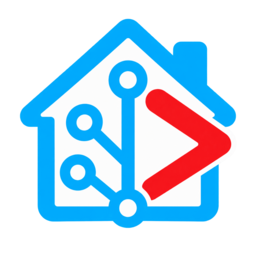
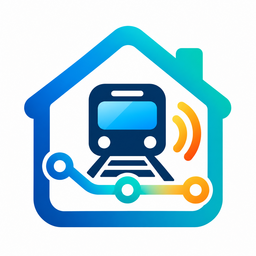
chore: replace branding and tighten public repo safeguards

diff --git a/AGENTS.md b/AGENTS.md
@@ -86,6 +86,36 @@ Never commit:
 
 Use ignored local configuration or environment variables for development secrets.
 
+## Public repository and release hygiene
+
+Before committing or preparing a release, inspect tracked files and the diff for
+accidental sensitive or development-only material. Check for API keys, tokens,
+passwords, cookies, credentials, private keys, certificates, authentication
+headers, `.env` and other local configuration files, Home Assistant `.storage`
+contents, captured API/protobuf responses, logs, debug dumps, screenshots, and
+fixtures. Also check for private URLs, internal hostnames/IPs, SSH details, local
+paths, usernames, machine-specific information, and personal addresses, email,
+phone, precise location, travel, or routine data. Do not claim a privacy or
+security scan was performed unless it was actually performed.
+
+Never read, print, copy, commit, or expose `api-key.txt`, `.env*`, Home
+Assistant `.storage`, or any other credential store. Documentation must use
+generic/example journeys and stations: do not use North Williamstown,
+Williamstown, Newport, or similar maintainer-relevant locations unless genuinely
+necessary. Realistic station names remain acceptable in technically useful tests.
+
+`logo.png` is the approved original source artwork. The generated/resized
+derivatives are `custom_components/ptv_line_status/brand/icon.png` and
+`custom_components/ptv_line_status/brand/icon@2x.png`. Agents may resize or
+optimise `logo.png` as needed, but must not redesign it to incorporate or
+imitate PTV, Home Assistant, Victorian Government, Nabu Casa, or other
+third-party logos. Do not use, imitate, blend, transform, or derive from
+third-party logos, names, or marks without a clear right to do so;
+AI-generated artwork prompted that way is still third-party-derived. Prefer
+visually independent branding and do not imply affiliation, endorsement, or
+official status. Replacement branding must be independently designed/original
+or have clearly documented permission.
+
 ## Git
 
 Use small focused commits.

diff --git a/README.md b/README.md
@@ -14,8 +14,8 @@ indicator to ESPControl displays, but ESPControl is optional: the same entities
 work in ordinary Home Assistant dashboards and automations.
 
 Version 0.2.5 creates three entities for each configured Metro train station,
-line, and direction. Multiple entries can be added, such as **North
-Williamstown → City**, **Newport → Williamstown**, and **Newport → City**.
+line, and direction. Multiple entries can be added, such as **Flinders Street →
+Frankston**, **Richmond → City**, and **Footscray → Werribee**.
 
 ## What it provides
 
@@ -220,11 +220,6 @@ Attribution 4.0 International Licence.
 
 This project is not affiliated with, endorsed by, or sponsored by Public
 Transport Victoria or Home Assistant.
-
-The project logo is not an official Public Transport Victoria or Home Assistant
-logo. Its provenance should be confirmed before public release; replace it with
-an original, non-official visual if it incorporates either organisation's
-branding or trademarked material.
 
 ## Licence
 
